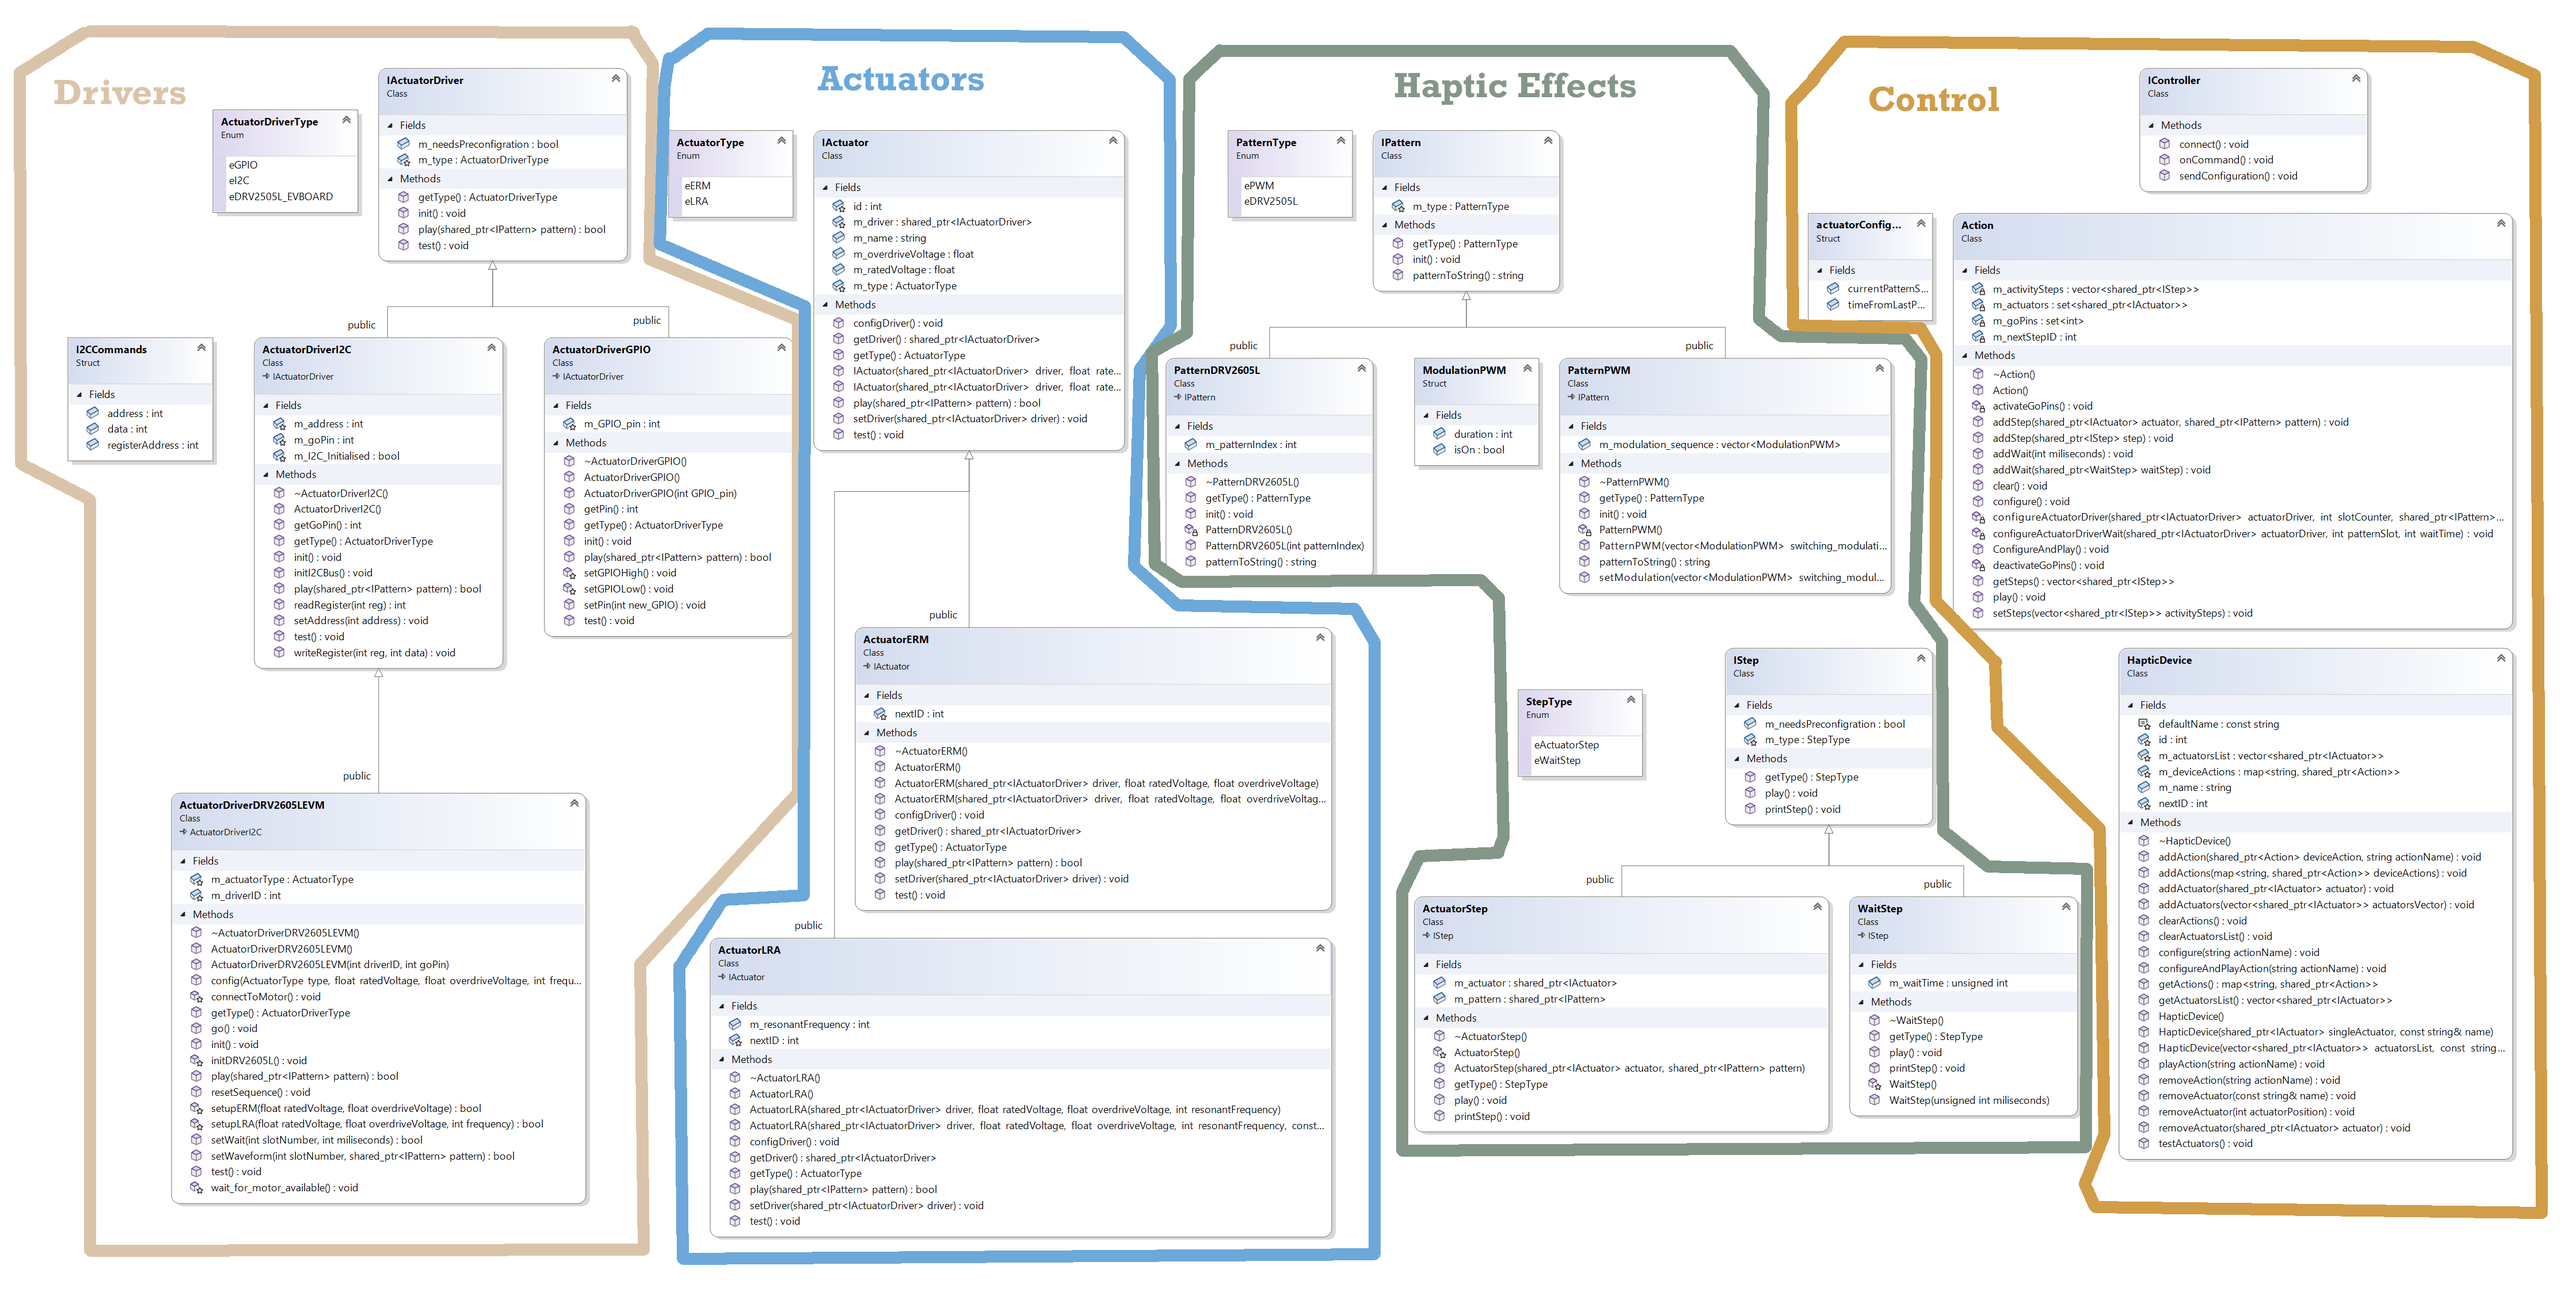
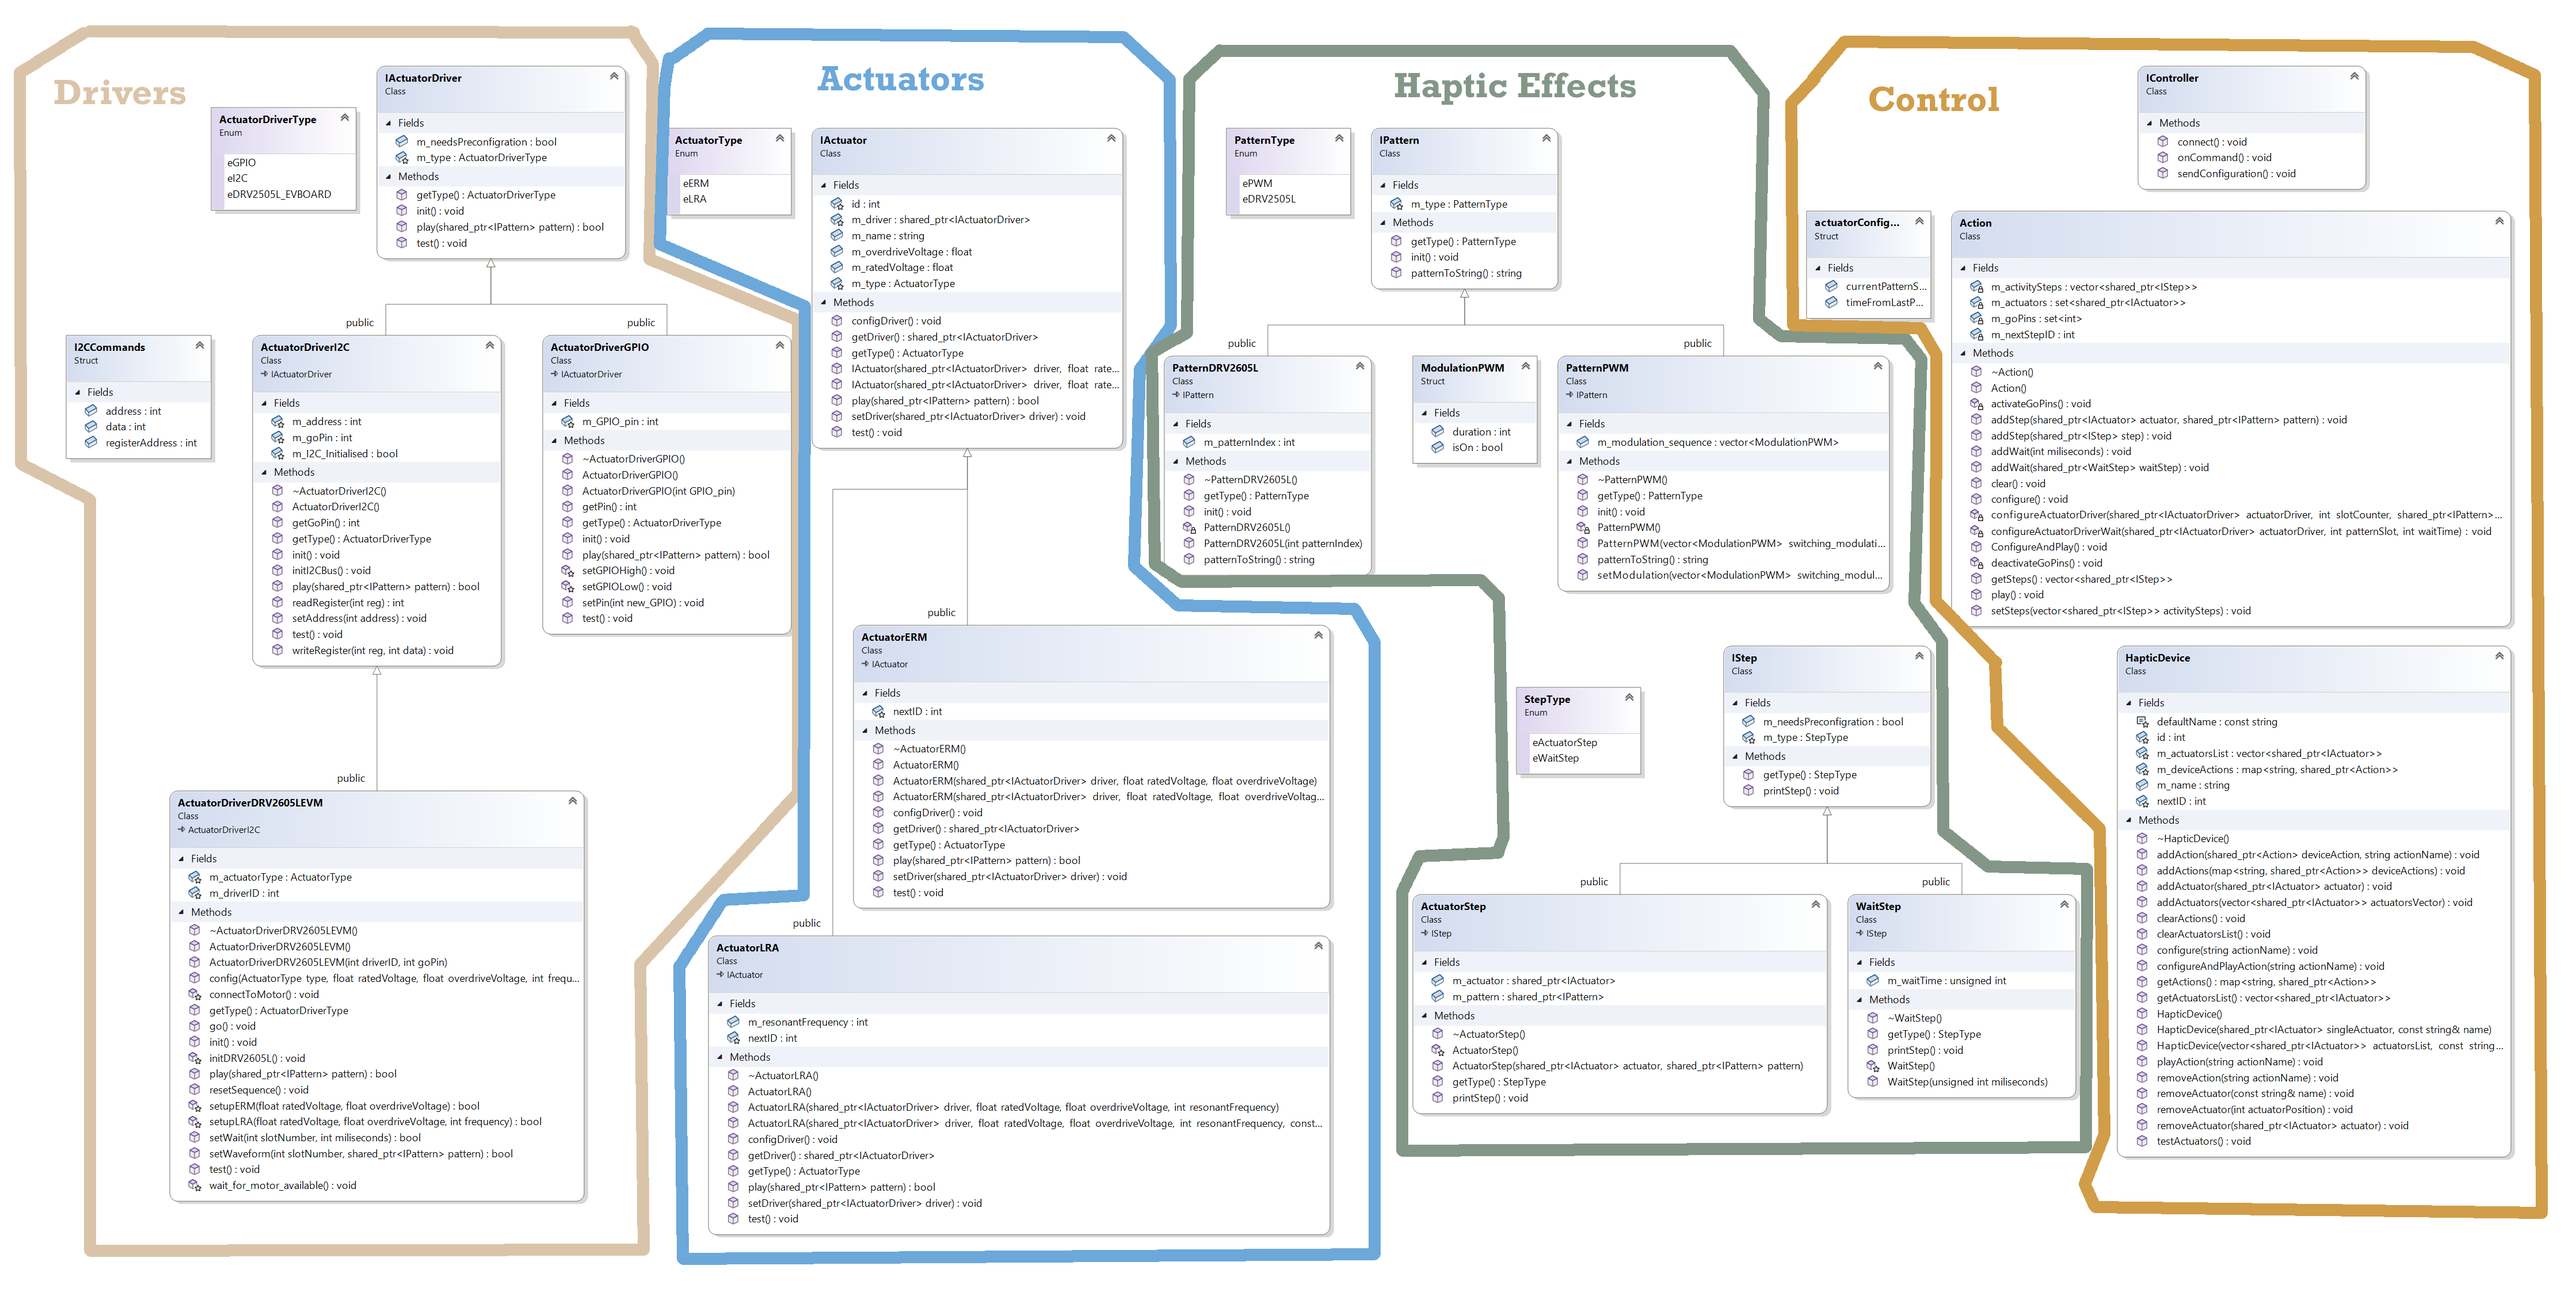
Adding PAttern and Step infographics

diff --git a/lib/Tactico/src/ActuatorStep.h b/lib/Tactico/src/ActuatorStep.h
@@ -44,12 +44,6 @@ class ActuatorStep : public IStep {
   ~ActuatorStep() = default;
 
   /**
-   * @brief Perform the pattern on the actuator.
-   *
-   */
-  void play();
-
-  /**
    * @brief Print the step in the serial port (as String)
    *
    */

diff --git a/lib/Tactico/src/WaitStep.h b/lib/Tactico/src/WaitStep.h
@@ -35,12 +35,6 @@ class WaitStep : public IStep {
   ~WaitStep() = default;
 
   /**
-   * @brief Perform the wait time.
-   *
-   */
-  void play();
-
-  /**
    * @brief Print the step in the serial port (as String)
    *
    */

diff --git a/README.md b/README.md
@@ -48,6 +48,10 @@ Currently two types of Actuators can be created - **ActuatorERM** and **Actuator
 it ties the software with physical devices. 
 ### Pattern & Step
 
+![image info](./documentation/pattern_step_class.png)
+*Fig.4. Haptic Pattern and Step classes.*
+
+
 PWM Pattern and DRV2605L pattern type
 
 **Step**
